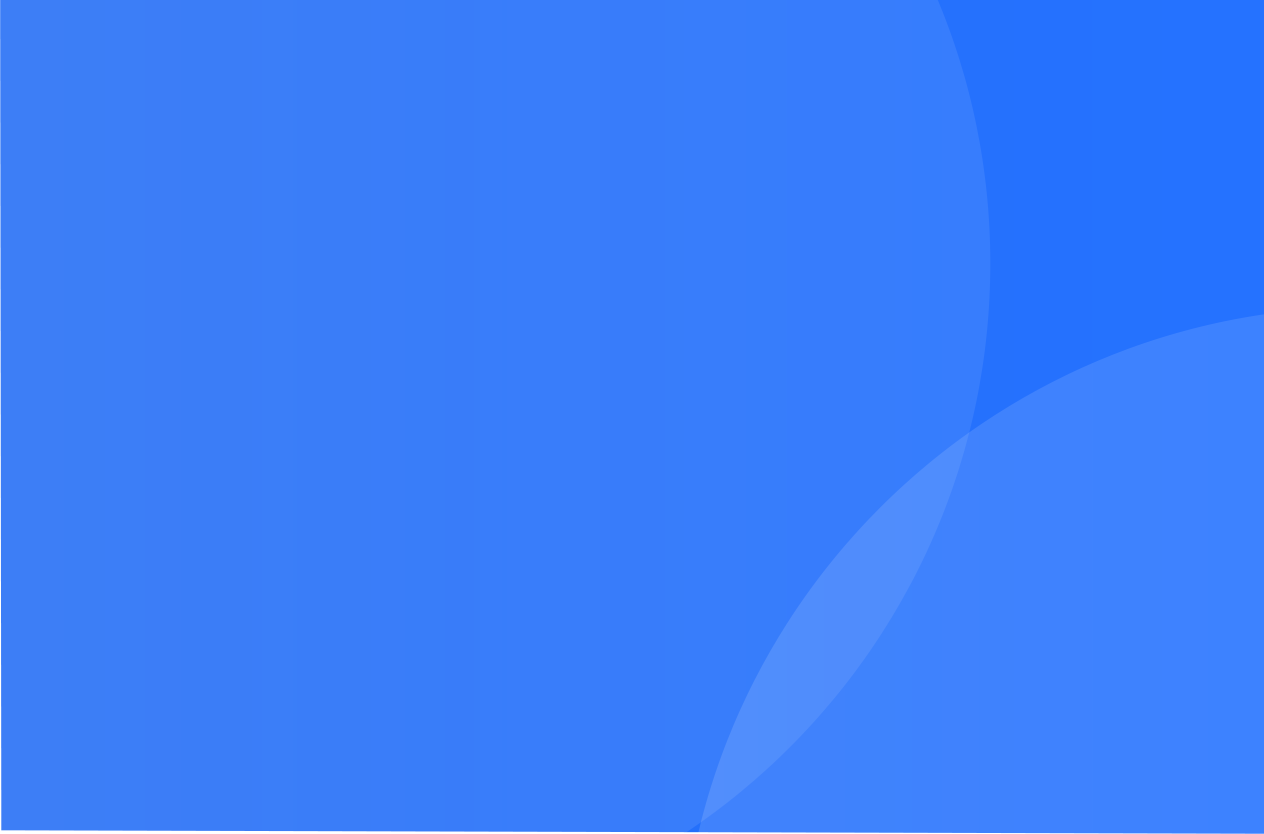
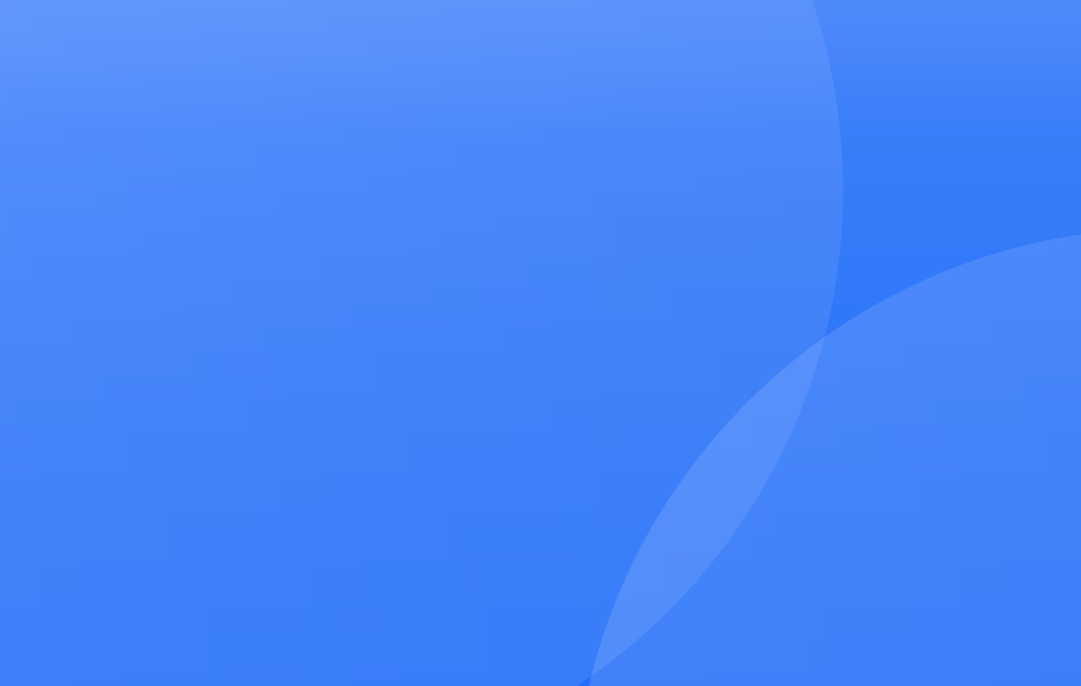
fix vault home bg; add space between 'and' and policy label

diff --git a/components/signed/setting/about.js b/components/signed/setting/about.js
@@ -103,9 +103,7 @@ class About extends Component {
                                 initialUrl: 'http://45.118.132.89/privacy_policy.html',
                             });
                         }}>
-                            <Text style={{...styles.center_text, color: linkButtonColor}}>
-                                 {strings('about.policy_label')}
-                            </Text>
+                            <Text style={{...styles.center_text, color: linkButtonColor}}> {strings('about.policy_label')} </Text>
                         </TouchableOpacity>
                     </View>
 					<Text style={styles.center_text}>
